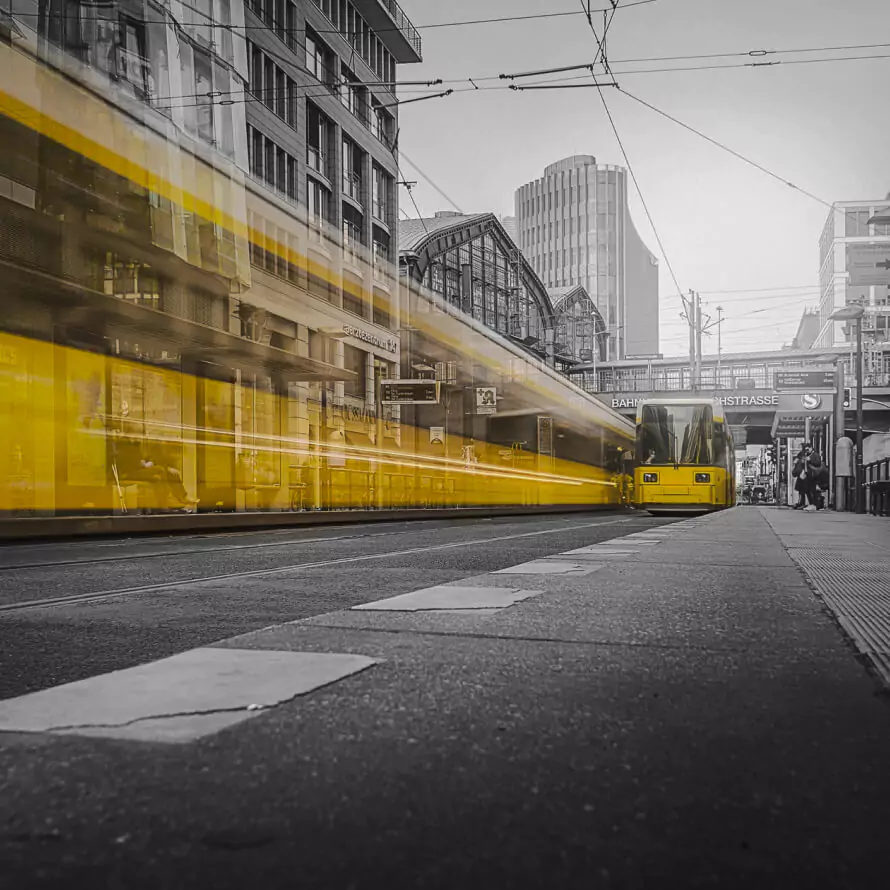
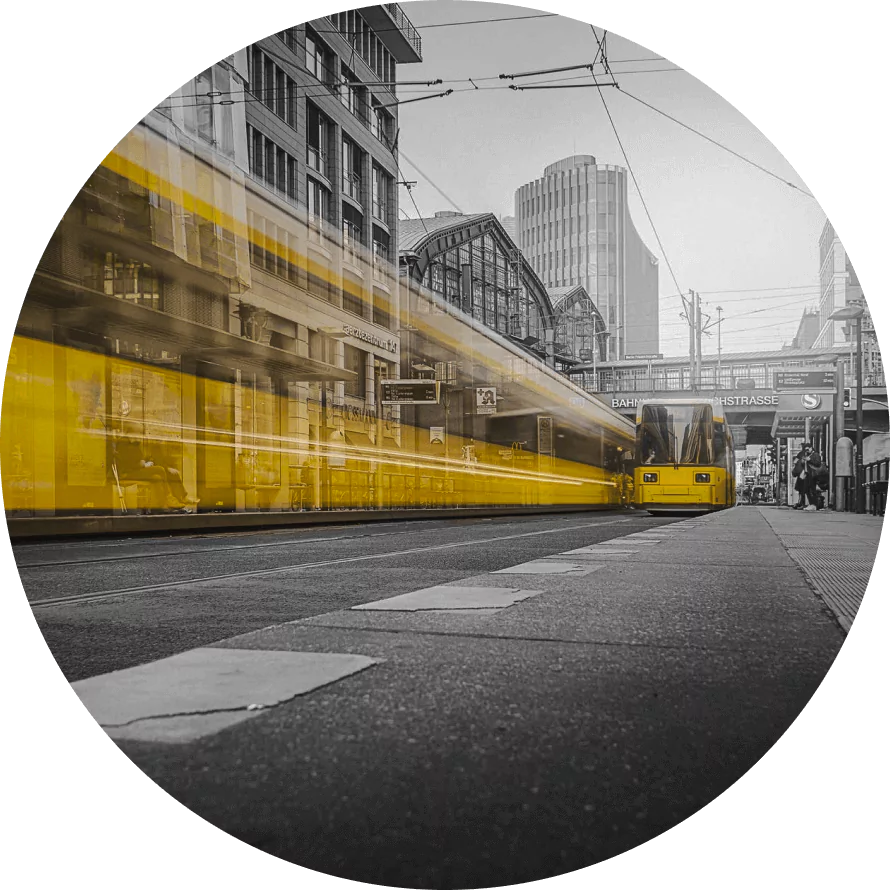
Add section mobility style

diff --git a/css/main.css b/css/main.css
@@ -366,6 +366,10 @@ main {
 
 .mobility {
   padding: 130px 0 120px;
+  background-image: url("../../images/mobility.webp"), url("../../images/living-oval.webp");
+  background-repeat: no-repeat;
+  background-size: auto, 100px 500px;
+  background-position: calc(50% + 450px) calc(50% - 250px), calc(50% - 650px) calc(50% + 226px);
 }
 
 .mobility-list {
@@ -374,18 +378,10 @@ main {
   list-style-type: none;
 }
 
-.mobility__item {
-  background-repeat: no-repeat;
-  background-size: 445px 445px;
-}
-
-.mobility__item:nth-child(1) {
-  background-image: url("../../images/mobility.webp");
-  background-position: top right;
-}
-
 .mobility__item:nth-child(2) {
   background-image: url("../../images/living.webp");
+  background-repeat: no-repeat;
+  background-size: 445px 445px;
 }
 
 .mobility__content {

diff --git a/scss/bloks/_mobility.scss b/scss/bloks/_mobility.scss
@@ -1,5 +1,9 @@
 .mobility {
   padding: 130px 0 120px;
+  background-image: url("../../images/mobility.webp"), url("../../images/living-oval.webp");
+  background-repeat: no-repeat;
+  background-size: auto, 100px 500px;
+  background-position: calc(50% + 450px) calc(50% - 250px),calc(50% - 650px) calc(50% + 226px);
 }
 
 .mobility-list {
@@ -8,18 +12,10 @@
   list-style-type: none;
 }
 
-.mobility__item {
-  background-repeat: no-repeat;
-  background-size: 445px 445px;
-}
-
-.mobility__item:nth-child(1) {
-  background-image: url("../../images/mobility.webp");
-  background-position: top right;
-}
-
 .mobility__item:nth-child(2) {
     background-image: url("../../images/living.webp");
+    background-repeat: no-repeat;
+    background-size: 445px 445px;
 }
 
 .mobility__content {
